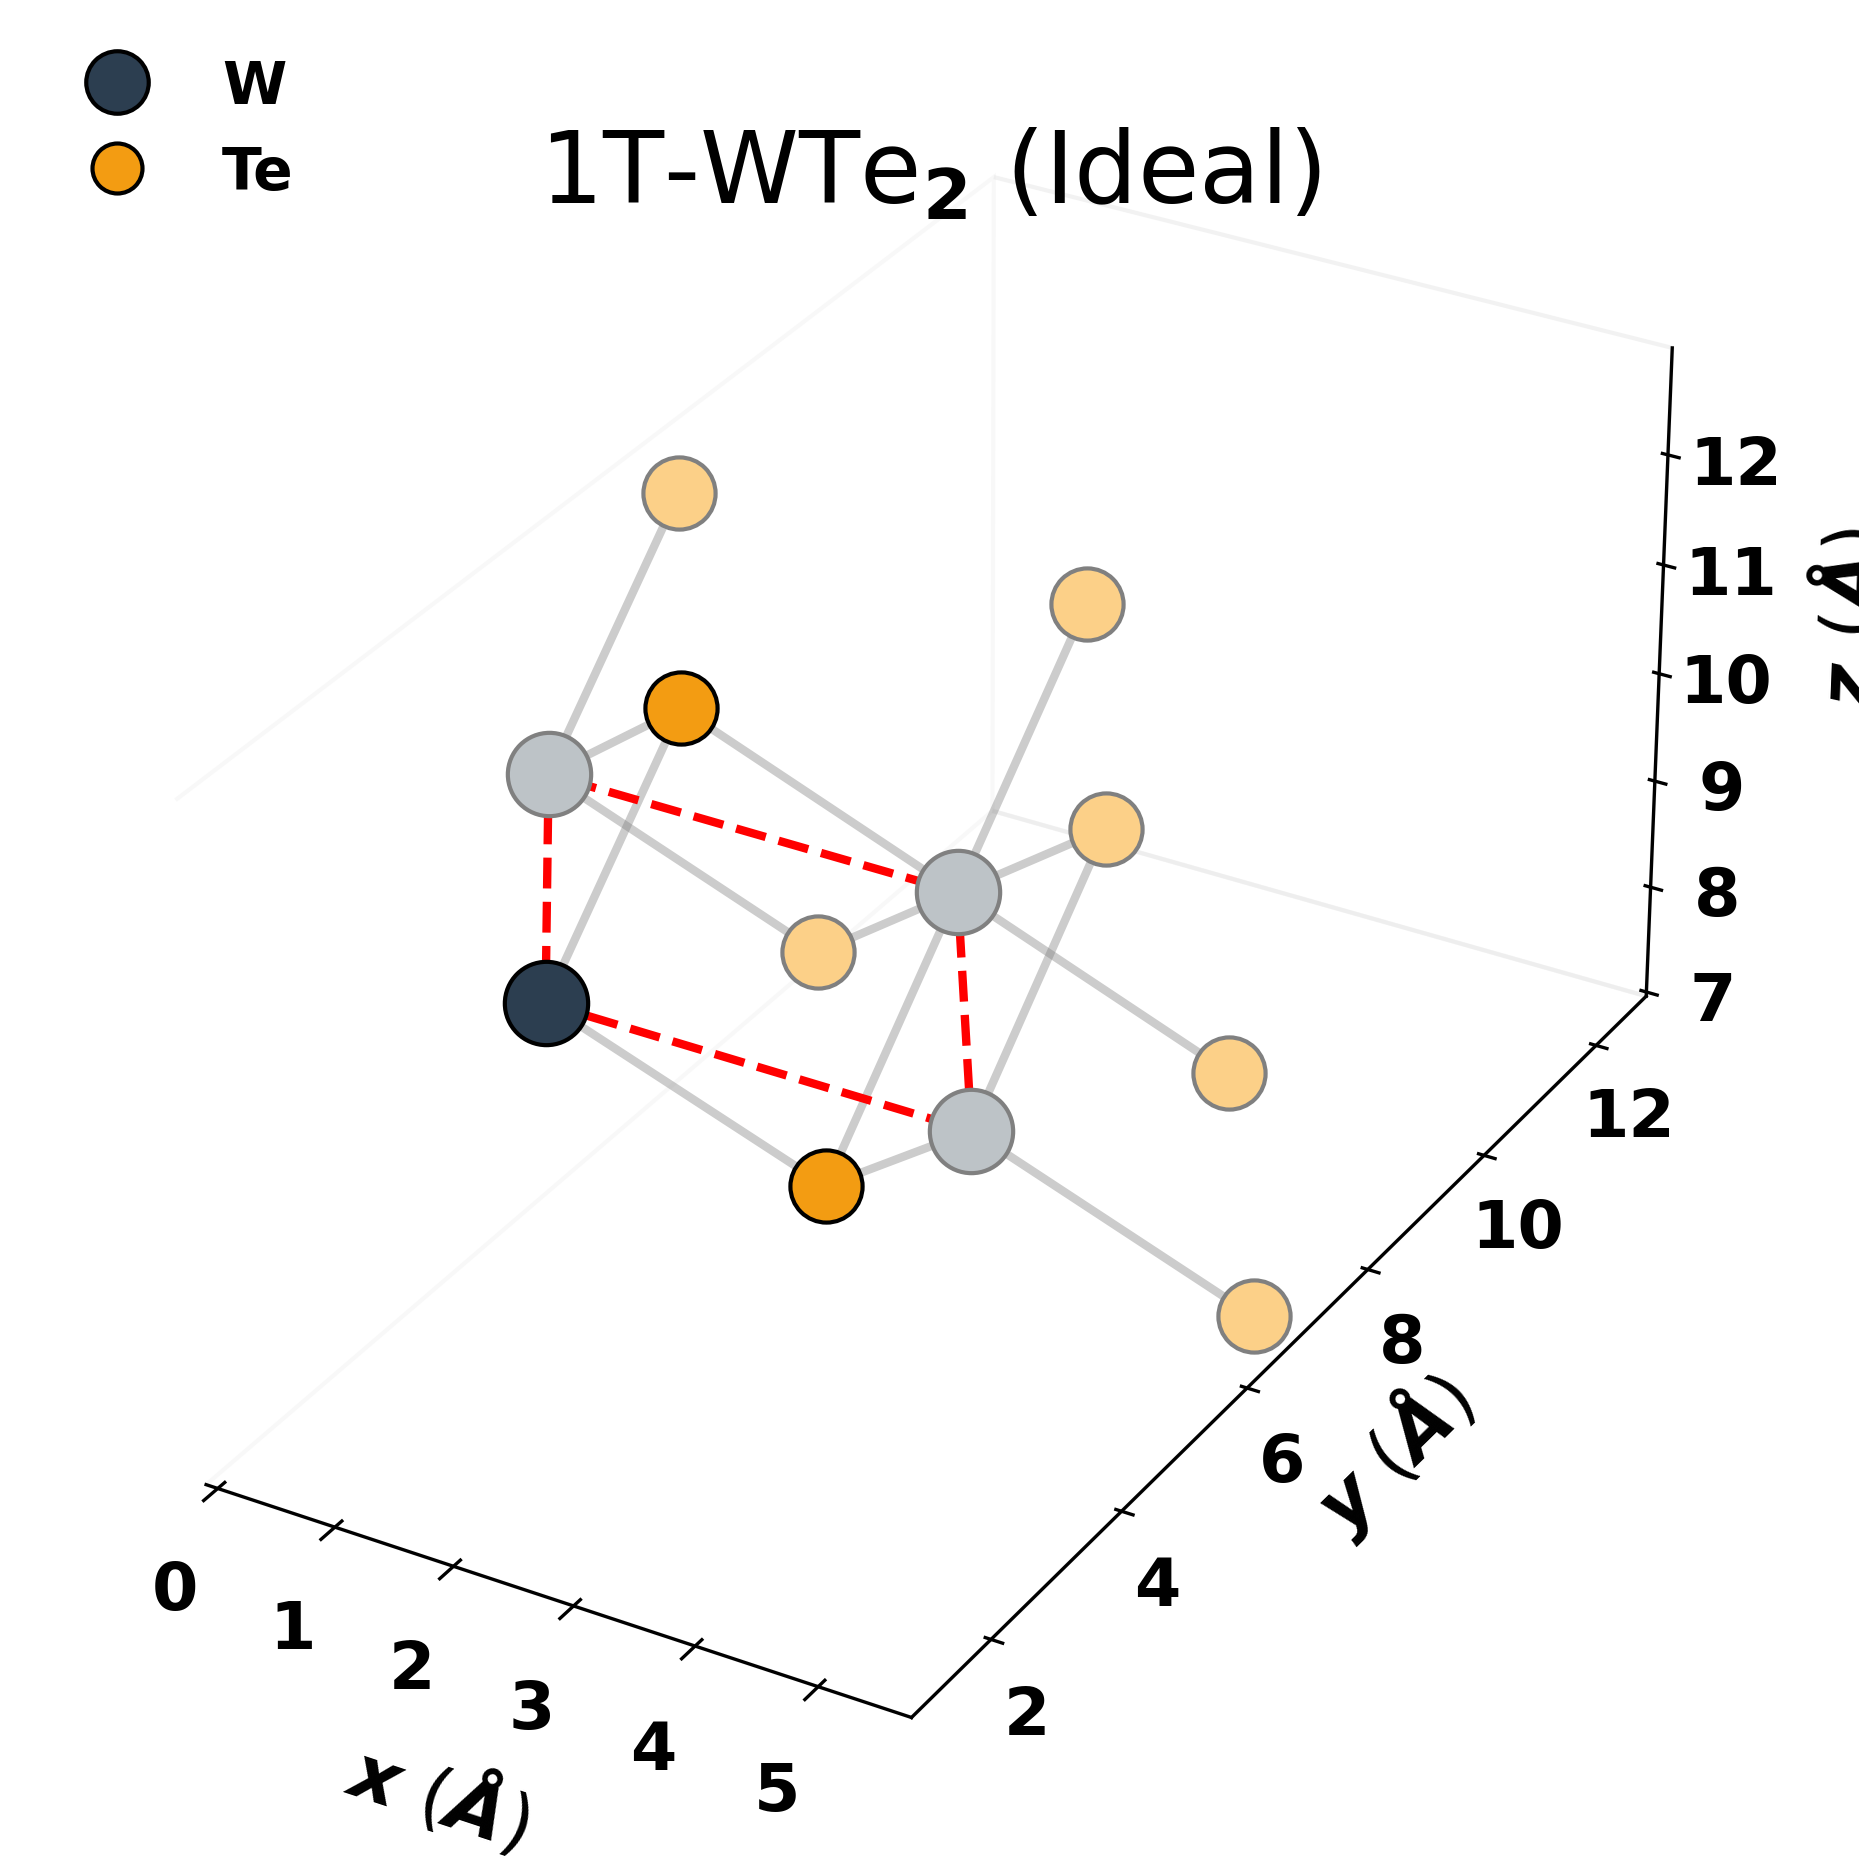
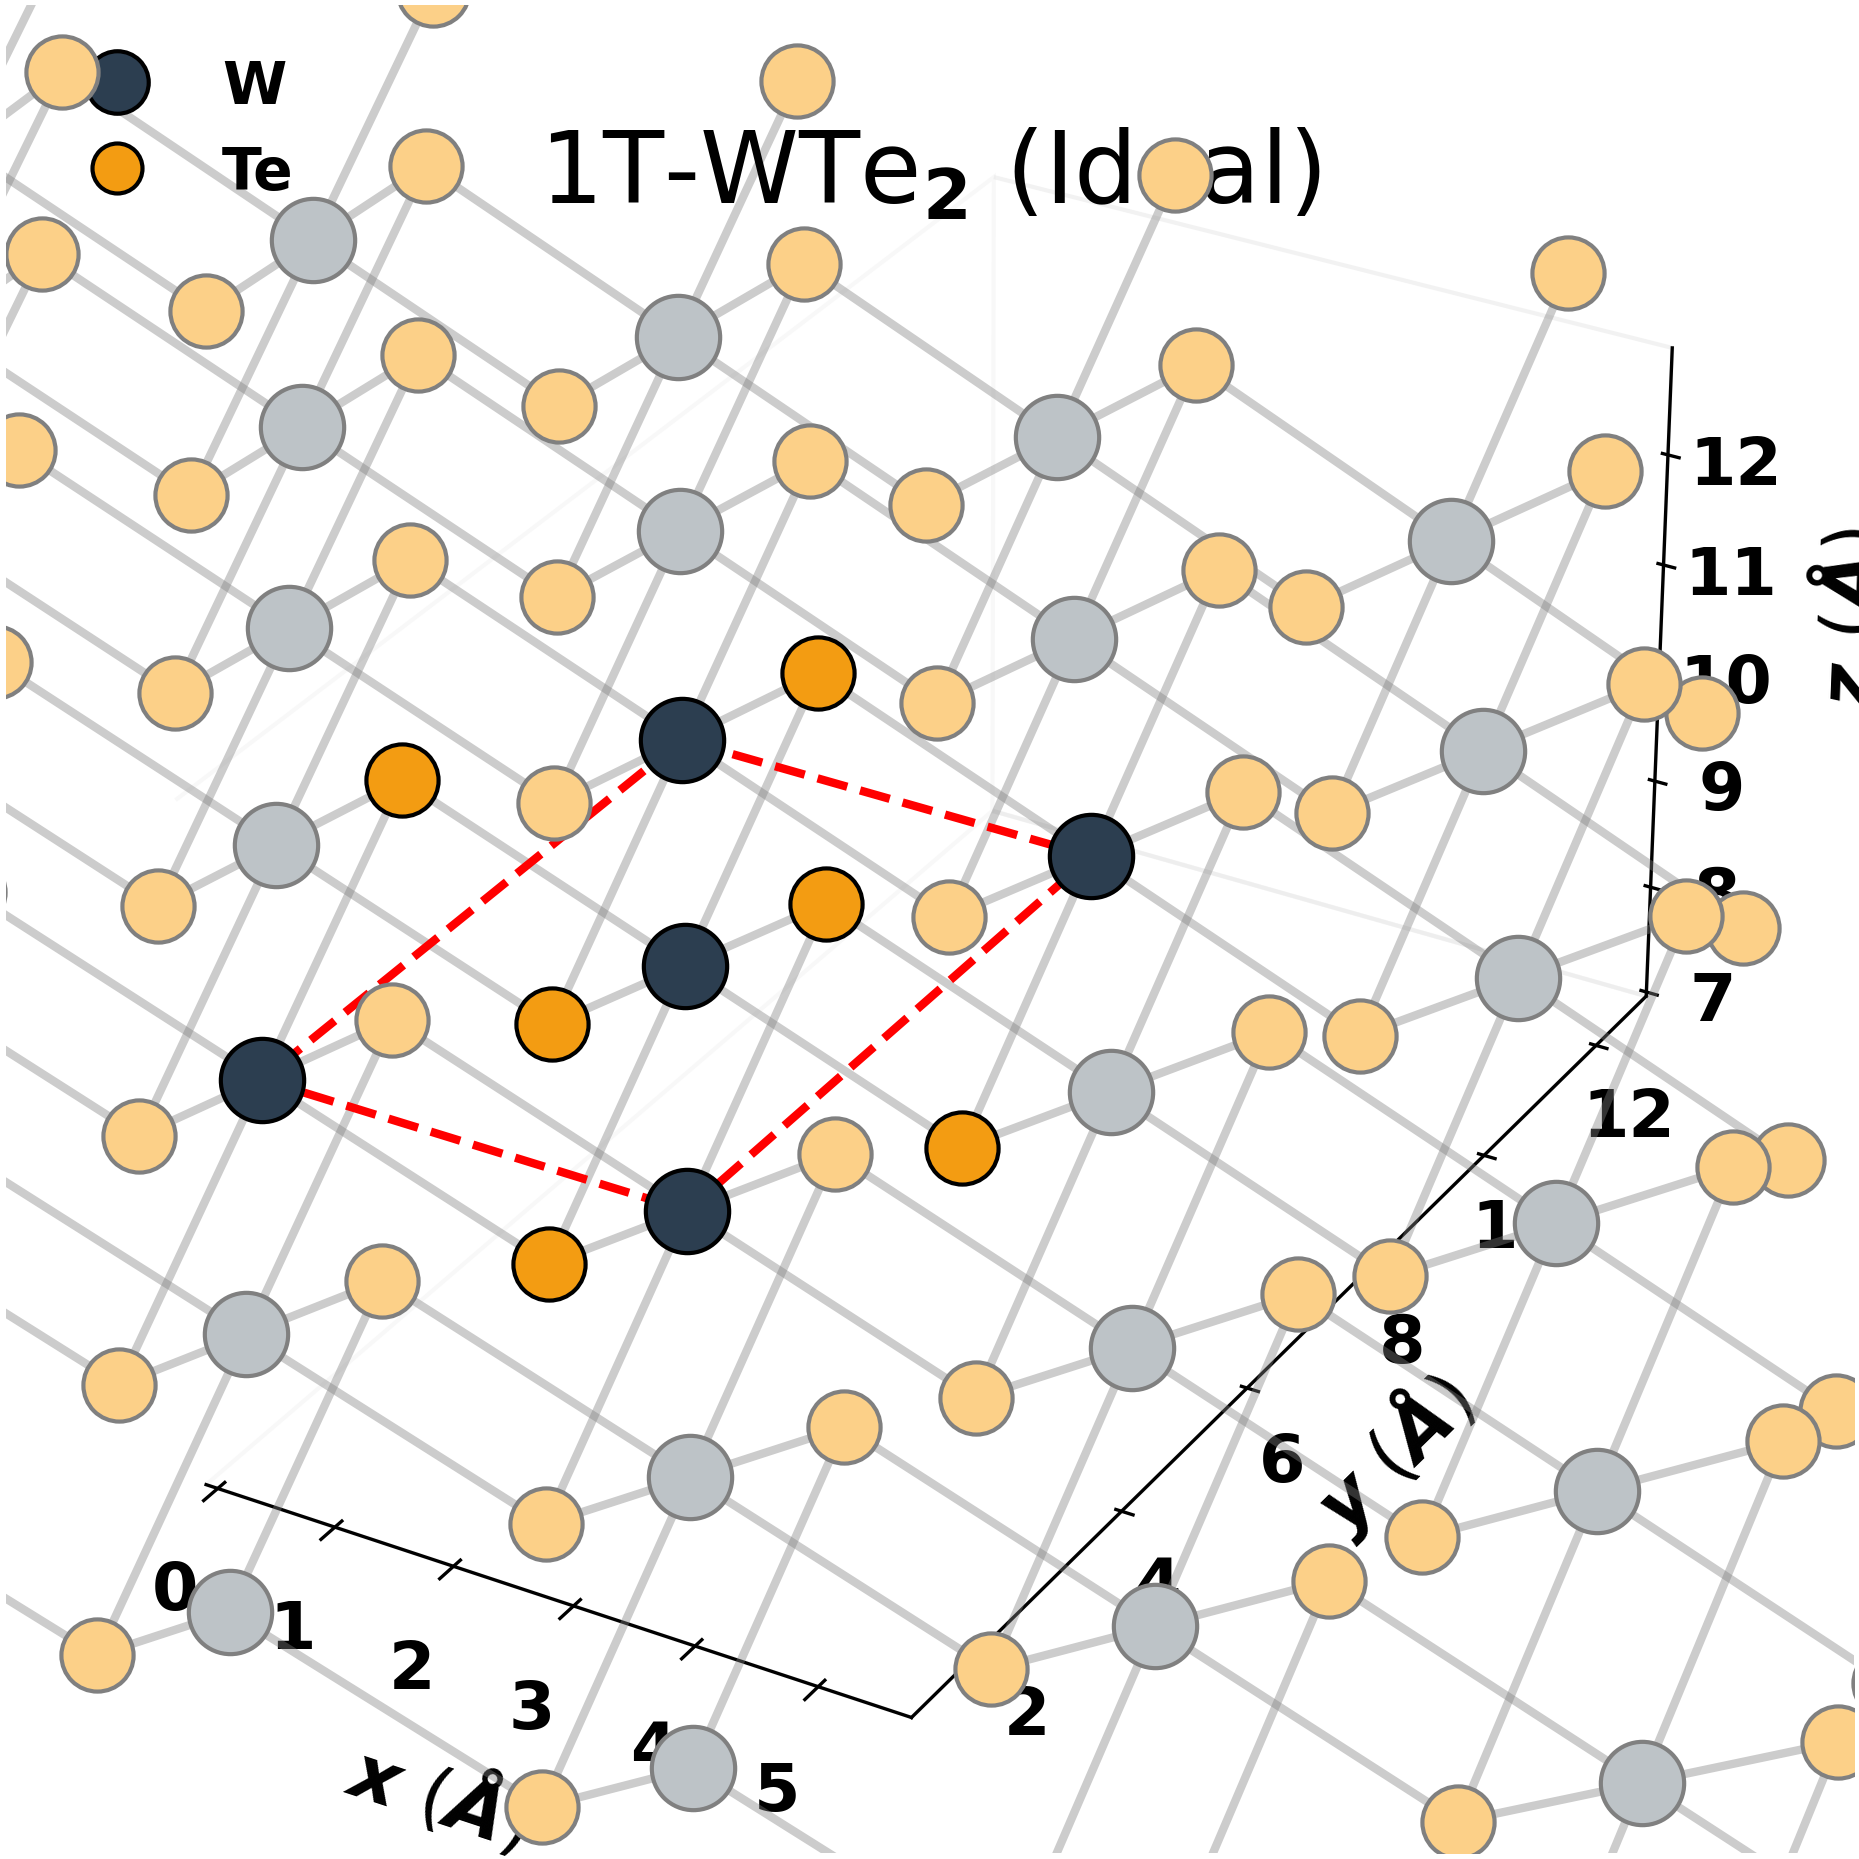
Updated 1T plot to use 1T'-aligned Rectangular Supercell and coloring

diff --git a/scripts/plot_structure_3d_1T.py b/scripts/plot_structure_3d_1T.py
@@ -36,45 +36,95 @@ def plot_1T_3d():
     coords = []
     species = []
     
-    # Create 2x2 supercell for visualization (Matches 1T' better)
-    # 1T' uses standard expansion: 0 to nx. 
-    # We must match this flow (Positive Quadrant)
-    nx, ny = 2, 2
+    # Create Large Primitive Grid to ensure we fill the view
+    # We will then select a central "Rectangular" cell to be the 'Primary' one.
+    nx_range = range(-3, 4)
+    ny_range = range(-2, 5)
     
-    for i in range(0, nx):
-        for j in range(0, ny):
+    for i in nx_range:
+        for j in ny_range:
             # Origin of cell
             origin = i*a1 + j*a2
             
-            # W Atom
             w_pos = origin
             coords.append(w_pos)
             species.append('W')
             
-            # Te Top
             te1_pos = origin + (1.0/3.0)*a1 + (2.0/3.0)*a2 + np.array([0, 0, z_te])
             coords.append(te1_pos)
             species.append('Te')
             
-            # Te Bottom
             te2_pos = origin + (2.0/3.0)*a1 + (1.0/3.0)*a2 + np.array([0, 0, -z_te])
             coords.append(te2_pos)
             species.append('Te')
             
     coords = np.array(coords)
     
-    # --- COORDINATE ALIGNMENT ---
-    # Target Centroid of the Primary Unit Cell (from 1T' Debug)
-    # DEBUG_PRIMARY_CENTROID: [ 1.74542456  4.70617937 10.15875225]
-    target_primary_centroid = np.array([1.745, 4.706, 10.16])
+    # --- DEFINE RECTANGULAR CELL (Match 1T') ---
+    # The 1T' cell is roughly a 1x2 supercell of 1T.
+    # a_rect = a1
+    # b_rect = a1 + 2*a2 (Orthogonal to a1)
     
-    # Calculate Current Primary Centroid (Index 0 now, since i=0,j=0 is first)
-    # First 3 atoms are cell (0,0)
-    current_primary_atoms = coords[0:3]
-    current_centroid = np.mean(current_primary_atoms, axis=0)
+    u_rect = a1
+    v_rect = a1 + 2*a2
+    
+    # Define the "Ideal" Box at the origin (0,0,0) initially
+    # We want a box starting at origin containing the atoms.
+    # For a perfect match, the box should be [0, u] x [0, v].
+    
+    # Identify atoms inside this Rectangular Box (Primary Cell)
+    # We'll use dot products to project atoms relative to a chosen origin.
+    # Let's pick origin such that it captures a nice full cell.
+    # If we pick (0,0), the box includes (0,0) W and (1,1) W (skew).
+    
+    # Let's find atoms in the box defined by parallelogram of u_rect, v_rect.
+    # Project coords onto normalized u and v?
+    # Or just geometric check: 
+    # pos = c1*u_rect + c2*v_rect. 0 <= c1 < 1, 0 <= c2 < 1.
+    
+    # Matrix M = [u, v, z_axis]. Inv(M) * pos = [c1, c2, c3]
+    # u = [a, 0, 0]
+    # v = [0, b, 0] (Since a1+2a2 is pure Y)
+    # So simple x,y bounds!
+    
+    x_limit = np.linalg.norm(u_rect) # 3.53
+    y_limit = np.linalg.norm(v_rect) # 6.12 approx
+    
+    # We need to pick a "Reference Origin" for the lattice to define the box.
+    # Let's try picking one W atom near the middle of our generated cloud as the Box Origin.
+    # Our loops went -3..4. (0,0) is in middle. Let's use (0,0) W atom as origin.
+    ref_origin = np.array([0., 0., 0.])
+    
+    primary_indices = []
+    
+    for idx, (x, y, z) in enumerate(coords):
+        # Relative pos
+        rx = x - ref_origin[0]
+        ry = y - ref_origin[1]
+        
+        # Check tolerance to include atoms ON the boundary (corners)
+        # 1T' usually highlights the corner Ws + internal.
+        tol = 0.1
+        
+        if (-tol <= rx <= x_limit + tol) and (-tol <= ry <= y_limit + tol):
+            primary_indices.append(idx)
+            
+    # --- COORDINATE ALIGNMENT ---
+    # Calculate Centroid of these Primary Atoms
+    primary_atom_coords = coords[primary_indices]
+    current_centroid = np.mean(primary_atom_coords, axis=0)
+    
+    # Target Centroid (from 1T' Debug)
+    target_primary_centroid = np.array([1.745, 4.706, 10.16])
     
     shift = target_primary_centroid - current_centroid
     coords += shift
+    
+    # Apply shift to reference origin too (for drawing box)
+    box_origin = ref_origin + shift
+    # Project box origin Z to mean Z
+    box_origin[2] = np.mean(coords[:, 2])
+
     
     # --- PLOTTING ---
     
@@ -85,9 +135,7 @@ def plot_1T_3d():
     zs = coords[:, 2]
     
     for idx, (x, y, z) in enumerate(coords):
-        floor_idx = idx // 3
-        # Cell order: i=0,j=0 is Index 0.
-        is_primary = (floor_idx == 0) # Target First Cell
+        is_primary = (idx in primary_indices)
 
         atom = species[idx]
         if atom == 'W':
@@ -129,20 +177,12 @@ def plot_1T_3d():
                 ax.plot([p1[0], p2[0]], [p1[1], p2[1]], [p1[2], p2[2]], 
                        color='gray', alpha=0.4, linewidth=2)
 
-    # Unit Cell Box (Center Cell - Now Index 0)
-    # The 'origin' of Index 0 (i=0,j=0) was (0,0,0) before shift.
-    # So new origin is just 'shift'.
-    
-    box_origin = shift 
-    # Need to project to mean Z plane
-    z_mean_new = np.mean(zs)
-    box_origin[2] = z_mean_new
-    
+    # Unit Cell Box (Rectangular 1T' shape)
     uc_corners = [
         box_origin,
-        box_origin + a1,
-        box_origin + a1 + a2,
-        box_origin + a2,
+        box_origin + u_rect,
+        box_origin + u_rect + v_rect,
+        box_origin + v_rect,
         box_origin
     ]
     uc_x = [p[0] for p in uc_corners]
